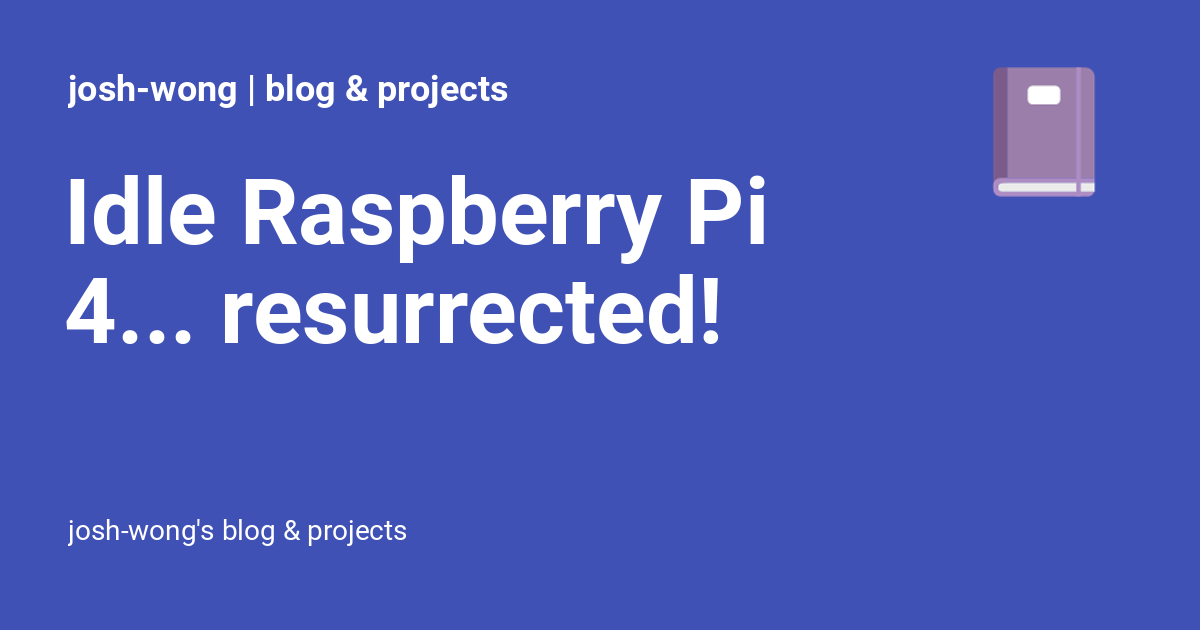
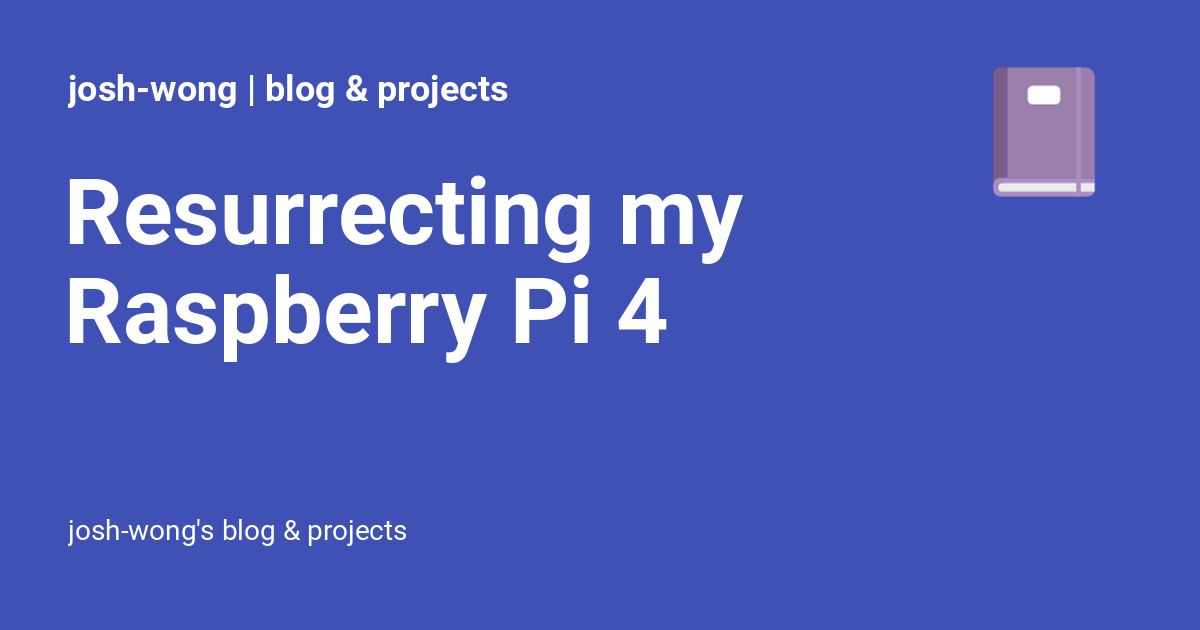
Deployed 975da5fb with MkDocs version: 1.4.2

Changed region(s): [[0.0308, 0.2714, 0.6475, 0.573]]

diff --git a/blog/2023/01/resurrecting-my-raspberry-pi-4/index.html b/blog/2023/01/resurrecting-my-raspberry-pi-4/index.html
@@ -13,7 +13,7 @@
       
       
       
-        <link rel="canonical" href="https://www.080f53.com/blog/2023/01/idle-raspberry-pi-4-resurrected/">
+        <link rel="canonical" href="https://www.080f53.com/blog/2023/01/resurrecting-my-raspberry-pi-4/">
       
       
         <link rel="prev" href="../month-in-review-december/">
@@ -28,7 +28,7 @@
     
     
       
-        <title>Idle Raspberry Pi 4... resurrected! - josh-wong | blog & projects</title>
+        <title>Resurrecting my Raspberry Pi 4 - josh-wong | blog & projects</title>
       
     
     
@@ -115,7 +115,7 @@
       
         <meta  property="og:type"  content="website" >
       
-        <meta  property="og:title"  content="Idle Raspberry Pi 4... resurrected! - josh-wong | blog & projects" >
+        <meta  property="og:title"  content="Resurrecting my Raspberry Pi 4 - josh-wong | blog & projects" >
       
         <meta  property="og:description"  content="josh-wong's blog & projects" >
       
@@ -127,11 +127,11 @@
       
         <meta  property="og:image:height"  content="630" >
       
-        <meta  property="og:url"  content="https://www.080f53.com/blog/2023/01/idle-raspberry-pi-4-resurrected/" >
+        <meta  property="og:url"  content="https://www.080f53.com/blog/2023/01/resurrecting-my-raspberry-pi-4/" >
       
         <meta  name="twitter:card"  content="summary_large_image" >
       
-        <meta  name="twitter:title"  content="Idle Raspberry Pi 4... resurrected! - josh-wong | blog & projects" >
+        <meta  name="twitter:title"  content="Resurrecting my Raspberry Pi 4 - josh-wong | blog & projects" >
       
         <meta  name="twitter:description"  content="josh-wong's blog & projects" >
       
@@ -158,7 +158,7 @@
     <div data-md-component="skip">
       
         
-        <a href="#idle-raspberry-pi-4-resurrected" class="md-skip">
+        <a href="#resurrecting-my-raspberry-pi-4" class="md-skip">
           Skip to content
         </a>
       
@@ -208,7 +208,7 @@
         <div class="md-header__topic" data-md-component="header-topic">
           <span class="md-ellipsis">
             
-              Idle Raspberry Pi 4... resurrected!
+              Resurrecting my Raspberry Pi 4
             
           </span>
         </div>
@@ -1384,7 +1384,7 @@
 
 
 
-<h1 id="idle-raspberry-pi-4-resurrected">Idle <abbr title="A series of small, single-board computers (SBCs) developed in the by the Raspberry Pi Foundation in association with Broadcom">Raspberry Pi</abbr> 4... resurrected!<a class="headerlink" href="#idle-raspberry-pi-4-resurrected" title="Permanent link">&para;</a></h1>
+<h1 id="resurrecting-my-raspberry-pi-4">Resurrecting my <abbr title="A series of small, single-board computers (SBCs) developed in the by the Raspberry Pi Foundation in association with Broadcom">Raspberry Pi</abbr> 4<a class="headerlink" href="#resurrecting-my-raspberry-pi-4" title="Permanent link">&para;</a></h1>
 <p>In October 2022, the fan on my <abbr title="A series of small, single-board computers (SBCs) developed in the by the Raspberry Pi Foundation in association with Broadcom">Raspberry Pi</abbr> 4 started making a loud clicking noise, so I unplugged the device and promptly forgot about it since I was busy. Since I didn’t have plans on my first day off for the 2023 New Year holiday break, I decided to get my <abbr title="A series of small, single-board computers (SBCs) developed in the by the Raspberry Pi Foundation in association with Broadcom">Raspberry Pi</abbr> 4 running again.</p>
 <!-- more -->
 

diff --git a/blog/archive/2023/index.html b/blog/archive/2023/index.html
@@ -1231,11 +1231,11 @@
     </div>
   </header>
   <div class="md-post__content md-typeset">
-    <h2 id="idle-raspberry-pi-4-resurrected"><a class="toclink" href="../../2023/01/idle-raspberry-pi-4-resurrected/">Idle <abbr title="A series of small, single-board computers (SBCs) developed in the by the Raspberry Pi Foundation in association with Broadcom">Raspberry Pi</abbr> 4... resurrected!</a></h2>
+    <h2 id="resurrecting-my-raspberry-pi-4"><a class="toclink" href="../../2023/01/resurrecting-my-raspberry-pi-4/">Resurrecting my <abbr title="A series of small, single-board computers (SBCs) developed in the by the Raspberry Pi Foundation in association with Broadcom">Raspberry Pi</abbr> 4</a></h2>
 <p>In October 2022, the fan on my <abbr title="A series of small, single-board computers (SBCs) developed in the by the Raspberry Pi Foundation in association with Broadcom">Raspberry Pi</abbr> 4 started making a loud clicking noise, so I unplugged the device and promptly forgot about it since I was busy. Since I didn’t have plans on my first day off for the 2023 New Year holiday break, I decided to get my <abbr title="A series of small, single-board computers (SBCs) developed in the by the Raspberry Pi Foundation in association with Broadcom">Raspberry Pi</abbr> 4 running again.</p>
 
     <nav class="md-post__action">
-      <a href="../../2023/01/idle-raspberry-pi-4-resurrected/">
+      <a href="../../2023/01/resurrecting-my-raspberry-pi-4/">
         Continue reading
       </a>
     </nav>

diff --git a/blog/category/raspberry-pi/index.html b/blog/category/raspberry-pi/index.html
@@ -1231,11 +1231,11 @@
     </div>
   </header>
   <div class="md-post__content md-typeset">
-    <h2 id="idle-raspberry-pi-4-resurrected"><a class="toclink" href="../../2023/01/idle-raspberry-pi-4-resurrected/">Idle <abbr title="A series of small, single-board computers (SBCs) developed in the by the Raspberry Pi Foundation in association with Broadcom">Raspberry Pi</abbr> 4... resurrected!</a></h2>
+    <h2 id="resurrecting-my-raspberry-pi-4"><a class="toclink" href="../../2023/01/resurrecting-my-raspberry-pi-4/">Resurrecting my <abbr title="A series of small, single-board computers (SBCs) developed in the by the Raspberry Pi Foundation in association with Broadcom">Raspberry Pi</abbr> 4</a></h2>
 <p>In October 2022, the fan on my <abbr title="A series of small, single-board computers (SBCs) developed in the by the Raspberry Pi Foundation in association with Broadcom">Raspberry Pi</abbr> 4 started making a loud clicking noise, so I unplugged the device and promptly forgot about it since I was busy. Since I didn’t have plans on my first day off for the 2023 New Year holiday break, I decided to get my <abbr title="A series of small, single-board computers (SBCs) developed in the by the Raspberry Pi Foundation in association with Broadcom">Raspberry Pi</abbr> 4 running again.</p>
 
     <nav class="md-post__action">
-      <a href="../../2023/01/idle-raspberry-pi-4-resurrected/">
+      <a href="../../2023/01/resurrecting-my-raspberry-pi-4/">
         Continue reading
       </a>
     </nav>

diff --git a/blog/index.html b/blog/index.html
@@ -1222,11 +1222,11 @@
     </div>
   </header>
   <div class="md-post__content md-typeset">
-    <h2 id="idle-raspberry-pi-4-resurrected"><a class="toclink" href="2023/01/idle-raspberry-pi-4-resurrected/">Idle <abbr title="A series of small, single-board computers (SBCs) developed in the by the Raspberry Pi Foundation in association with Broadcom">Raspberry Pi</abbr> 4... resurrected!</a></h2>
+    <h2 id="resurrecting-my-raspberry-pi-4"><a class="toclink" href="2023/01/resurrecting-my-raspberry-pi-4/">Resurrecting my <abbr title="A series of small, single-board computers (SBCs) developed in the by the Raspberry Pi Foundation in association with Broadcom">Raspberry Pi</abbr> 4</a></h2>
 <p>In October 2022, the fan on my <abbr title="A series of small, single-board computers (SBCs) developed in the by the Raspberry Pi Foundation in association with Broadcom">Raspberry Pi</abbr> 4 started making a loud clicking noise, so I unplugged the device and promptly forgot about it since I was busy. Since I didn’t have plans on my first day off for the 2023 New Year holiday break, I decided to get my <abbr title="A series of small, single-board computers (SBCs) developed in the by the Raspberry Pi Foundation in association with Broadcom">Raspberry Pi</abbr> 4 running again.</p>
 
     <nav class="md-post__action">
-      <a href="2023/01/idle-raspberry-pi-4-resurrected/">
+      <a href="2023/01/resurrecting-my-raspberry-pi-4/">
         Continue reading
       </a>
     </nav>

diff --git a/blog/2023/01/month-in-review-december/index.html b/blog/2023/01/month-in-review-december/index.html
@@ -19,7 +19,7 @@
         <link rel="prev" href="../../../2022/12/month-in-review-november/">
       
       
-        <link rel="next" href="../idle-raspberry-pi-4-resurrected/">
+        <link rel="next" href="../resurrecting-my-raspberry-pi-4/">
       
       
         
@@ -1529,13 +1529,13 @@
         
         
           
-          <a href="../idle-raspberry-pi-4-resurrected/" class="md-footer__link md-footer__link--next" aria-label="Next: Idle Raspberry Pi 4... resurrected!" rel="next">
+          <a href="../resurrecting-my-raspberry-pi-4/" class="md-footer__link md-footer__link--next" aria-label="Next: Resurrecting my Raspberry Pi 4" rel="next">
             <div class="md-footer__title">
               <div class="md-ellipsis">
                 <span class="md-footer__direction">
                   Next
                 </span>
-                Idle Raspberry Pi 4... resurrected!
+                Resurrecting my Raspberry Pi 4
               </div>
             </div>
             <div class="md-footer__button md-icon">
